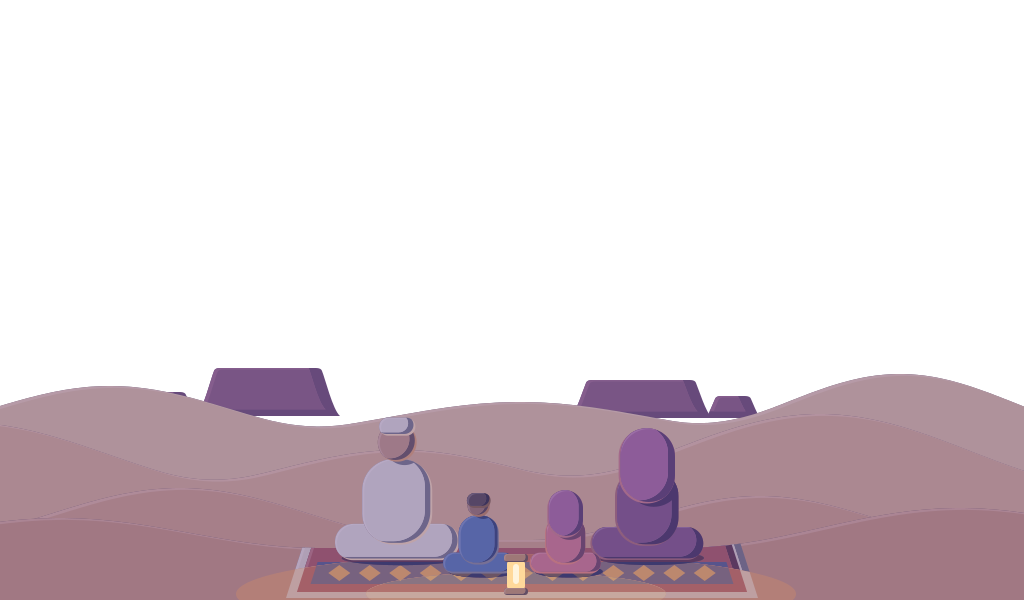
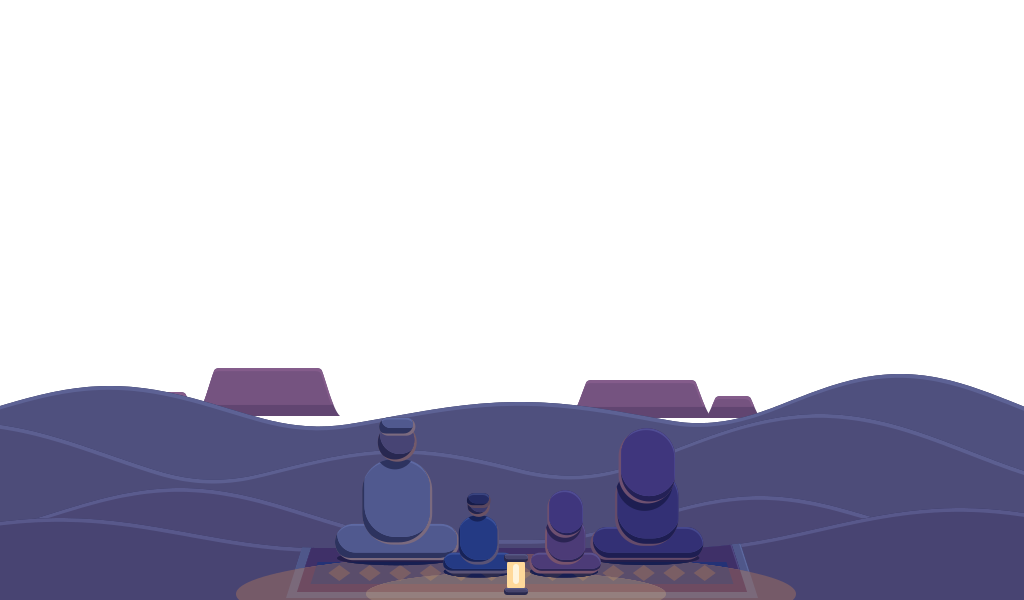
feat(script): the land goes into moonlight before the sky (June 23:10 reads as night)
At -7.5 (21 June 23:10) the picture sat between set-4 and set-10, both
authored as dusk with sunlit sand, so the frame read as late sunset
while the approved still is night. Now the land, family and rug are in
cool violet shade at set-4 (lamp .5, the card dark), at the night's
land colours (shared NIGHT_LIGHT/NIGHT_BANDS, lamp 1) from set-10 and
set-20, and rising at rise-12 (lamp .65, the most the smoothness guard
allows five degrees from the pinned dawn) and rise-20. The skies are
untouched: the horizon keeps its afterglow to -12 and is the night sky
by -20. The light direction reaches moonlight by -12 (setting: a
two-degree swing from -10, so set-4 and set-10 share one shading and
their cross-fade shows one set of shade bands; rising: -7 to -12). The
pinned stops (rise-7, day, set0, night) are byte-identical after the
rebake; five land layers rebaked.

diff --git a/app/ash/core/script.js b/app/ash/core/script.js
@@ -23,9 +23,12 @@ function m(sky, light, glow, clock, card, bands, lamp, dim) {
     kDune: bands[0], kMesa: bands[1], kRug: bands[2], hBand: bands[3], haze: bands[4], lamp: lamp, dim: dim };
 }
 
-// Night: moonlit indigo, a warm lantern on the rug, the card a dark navy with light ink.
-var NIGHT = m(["#0b1230", "#18244e", "#2e3f74"], ["#22307a", "#090c2e", "#9fb4ff", 0.78, 0.18, 0.5], "#9fb4ff",
-  ["#eef1ff", "#050817"], ["#1d2856", "#e8ecff", "#e9a23b"], [16, 12, 7, 4, 0.16], 1, 0.45);
+// Night: moonlit indigo, a warm lantern on the rug, the card a dark navy with light ink. The land goes into
+// moonlight before the sky does: every stop from -10 down (setting) and -12 down (rising) has this land, and
+// only the sky carries the afterglow (June 23:10 is -7.5 and reads as night on the ground, as the approved still).
+var NIGHT_LIGHT = ["#22307a", "#090c2e", "#9fb4ff", 0.78, 0.18, 0.5], NIGHT_BANDS = [16, 12, 7, 4, 0.16];
+var NIGHT = m(["#0b1230", "#18244e", "#2e3f74"], NIGHT_LIGHT, "#9fb4ff",
+  ["#eef1ff", "#050817"], ["#1d2856", "#e8ecff", "#e9a23b"], NIGHT_BANDS, 1, 0.45);
 // Noon: pale gold light, violet shade, blue sky, cream card.
 var DAY = m(["#2a78b4", "#5aa6d2", "#bfe4e4"], ["#fff1cc", "#8a7ea8", "#fff8e0", 0.12, 0.3, 0.3], "#fff4d6",
   ["#ffffff", "#1f5a8c"], ["#fcf1dd", "#1f2a3a", "#e9a23b"], [10, 8, 5, 4, 0.12], 0, 0);
@@ -33,11 +36,12 @@ var DAY = m(["#2a78b4", "#5aa6d2", "#bfe4e4"], ["#fff1cc", "#8a7ea8", "#fff8e0",
 // ascending altitude (degrees): [altitude, moment]
 var RISING = [
   [-90, NIGHT],
-  [-20, m(["#0e1538", "#1e2b5a", "#3a4a84"], ["#2a3a86", "#0b0f34", "#a8bcff", 0.74, 0.18, 0.5], "#b0a8d8",
-    ["#eef1ff", "#080c22"], ["#202c5e", "#e8ecff", "#e9a23b"], [18, 13, 8, 4, 0.16], 1, 0.4)],
-  // first light: violet, the lantern fading, the card still dark
-  [-12, m(["#161c4a", "#3a3878", "#8a6090"], ["#7a6aa8", "#1e1c4e", "#d8c0e0", 0.55, 0.18, 0.46], "#e0b0c0",
-    ["#f6f2ff", "#1c1848"], ["#2c2a60", "#ece8ff", "#e08a5a"], [22, 16, 9, 4.5, 0.16], 0.5, 0.25)],
+  [-20, m(["#0e1538", "#1e2b5a", "#3a4a84"], NIGHT_LIGHT, "#b0a8d8",
+    ["#eef1ff", "#080c22"], ["#202c5e", "#e8ecff", "#e9a23b"], NIGHT_BANDS, 1, 0.45)],
+  // first light: a violet horizon over the moonlit land, the card still dark, the lantern fading toward the unlit
+  // dawn (0.65 is as bright as the smoothness guard allows five degrees from the pinned dawn)
+  [-12, m(["#161c4a", "#3a3878", "#8a6090"], NIGHT_LIGHT, "#e0b0c0",
+    ["#f6f2ff", "#1c1848"], ["#2c2a60", "#ece8ff", "#e08a5a"], NIGHT_BANDS, 0.65, 0.35)],
   // dawn (the approved still): peach light, violet shade
   [-7, m(["#26335f", "#6a5a8a", "#f0a890"], ["#f6c4ae", "#5a3f86", "#ffd9b8", 0.3, 0.22, 0.4], "#ffd0a8",
     ["#fff7ee", "#3a3a6a"], ["#fae4d4", "#2a2440", "#d9745e"], [26, 18, 10, 5, 0.16], 0, 0.1)],
@@ -53,14 +57,15 @@ var RISING = [
 ];
 var SETTING = [
   [-90, NIGHT],
-  [-20, m(["#0e1438", "#1e2858", "#3c4682"], ["#2a3686", "#0b0e34", "#a8b8ff", 0.74, 0.18, 0.5], "#b0a8d4",
-    ["#eef1ff", "#080c22"], ["#202a5c", "#e8ecff", "#e9a23b"], [18, 13, 8, 4, 0.16], 1, 0.4)],
-  // dusk: plum over indigo, the lantern lit, the card gone dark
-  [-10, m(["#161a4a", "#3e2a68", "#9c5a7c"], ["#7a5290", "#1a1444", "#d8a8c0", 0.56, 0.16, 0.46], "#e0a0a8",
-    ["#f6f0ff", "#1a1040"], ["#2c2458", "#ece8ff", "#e08a5a"], [22, 16, 9, 4.5, 0.16], 0.5, 0.25)],
-  // afterglow
-  [-4, m(["#2e2a68", "#7c4068", "#ea8a5c"], ["#f0906c", "#3e2052", "#ffb890", 0.4, 0.22, 0.5], "#ffb878",
-    ["#fff2e6", "#3a2052"], ["#f8d2bc", "#2e1a2a", "#e06a48"], [24, 16, 9, 5, 0.16], 0, 0.08)],
+  [-20, m(["#0e1438", "#1e2858", "#3c4682"], NIGHT_LIGHT, "#b0a8d4",
+    ["#eef1ff", "#080c22"], ["#202a5c", "#e8ecff", "#e9a23b"], NIGHT_BANDS, 1, 0.45)],
+  // dusk: a plum afterglow over the moonlit land, the lantern lit, the card dark
+  [-10, m(["#161a4a", "#3e2a68", "#9c5a7c"], NIGHT_LIGHT, "#e0a0a8",
+    ["#f6f0ff", "#1a1040"], ["#2c2458", "#ece8ff", "#e08a5a"], NIGHT_BANDS, 1, 0.45)],
+  // afterglow: an orange horizon, but no sun on the land any more: cool violet shade, the lantern half lit, the
+  // card gone dark
+  [-4, m(["#2e2a68", "#7c4068", "#ea8a5c"], ["#5a4a98", "#160f3c", "#c8b8e8", 0.6, 0.1, 0.5], "#ffb878",
+    ["#fff2e6", "#3a2052"], ["#3a2a58", "#ece6f6", "#e07a52"], [24, 16, 9, 5, 0.16], 0.5, 0.2)],
   // sunset (the approved still): orange light, plum shade
   [0, m(["#3e3474", "#a24e6e", "#f6a15a"], ["#ff9e64", "#5a2856", "#ffc27a", 0.34, 0.3, 0.5], "#ffd27a",
     ["#fff4e6", "#5a2856"], ["#fcd8be", "#2e1a2a", "#e8653f"], [26, 18, 10, 5, 0.16], 0, 0)],

diff --git a/tests/core/script.test.js b/tests/core/script.test.js
@@ -73,3 +73,32 @@ test('one hue per moment: the dawn stop is violet/peach, the night stop indigo, 
   assert.ok(hue(S.MOMENTS.day.mid) > 220 && hue(S.MOMENTS.day.mid) < 260, 'day sky ' + hue(S.MOMENTS.day.mid));
   assert.ok(S.MOMENTS.night.lamp === 1 && S.MOMENTS['rise-20'].lamp > 0 && S.MOMENTS['rise-1'].lamp === 0, 'the lantern burns at night only');
 });
+
+// The fix pass of 2026-11-12: the land goes into moonlight before the sky does (June 23:10 is -7.5 and must read
+// as night on the ground). Setting: cool shade by -6, the night land by -10, the lantern half lit at -4 and lit from
+// -10; the sky keeps its afterglow at -12 and is the night sky by -20. Rising, below the pinned dawn: the night land
+// by -12 (the lantern as bright as the smoothness guard allows against the dawn's unlit one).
+var LAND = ['key', 'amb', 'sunlight', 'tint', 'lit', 'shade', 'kDune', 'kMesa', 'kRug', 'hBand'];
+function landIsNight(m, where) {
+  LAND.forEach(function (k) {
+    if (typeof m[k] === 'number') { assert.ok(Math.abs(m[k] - S.NIGHT[k]) <= 0.02 * Math.max(1, S.NIGHT[k]), k + ' ' + m[k] + ' is not the night\'s ' + S.NIGHT[k] + ' at ' + where); }
+    else { assert.ok(C.distance(m[k], S.NIGHT[k]) <= 0.02, k + ' ' + m[k] + ' is not the night\'s ' + S.NIGHT[k] + ' at ' + where); }
+  });
+}
+test('the land goes into moonlight early: cool shade by -6 setting, the night land by -10 (by -12 rising), the lantern lit, the sky keeping its afterglow until -12', function () {
+  function hue(hex) { var l = C.toLab(hex), h = Math.atan2(l[2], l[1]) * 180 / Math.PI; return h < 0 ? h + 360 : h; }
+  var dusk = S.momentAt(-6, false);
+  assert.ok(hue(dusk.key) > 250 && hue(dusk.key) < 320 && C.toLab(dusk.key)[0] < 0.5 && dusk.tint >= 0.6, 'at -6 setting the key is a cool shade: ' + dusk.key + ' tint ' + dusk.tint);
+  assert.ok(dusk.lit <= 0.15, 'no sunlit bands at -6: lit ' + dusk.lit);
+  assert.ok(S.momentAt(-4, false).lamp >= 0.5, 'lantern at -4: ' + S.momentAt(-4, false).lamp);
+  for (var alt = -10; alt >= -90; alt -= 1) {
+    landIsNight(S.momentAt(alt, false), alt + ' setting');
+    assert.strictEqual(S.momentAt(alt, false).lamp, 1, 'lantern lit at ' + alt + ' setting');
+    if (alt <= -12) { landIsNight(S.momentAt(alt, true), alt + ' rising'); }
+  }
+  assert.ok(S.momentAt(-12, true).lamp >= 0.6, 'lantern at -12 rising: ' + S.momentAt(-12, true).lamp);
+  var glow = S.momentAt(-12, false).hor, h = hue(glow);
+  assert.ok((h >= 300 || h <= 60) && C.chroma(glow) >= 0.05, 'afterglow horizon at -12 setting: ' + glow + ' hue ' + h.toFixed(0));
+  assert.ok(C.distance(S.momentAt(-20, false).hor, S.NIGHT.hor) <= 0.06 && C.distance(S.momentAt(-20, true).hor, S.NIGHT.hor) <= 0.06, 'the night sky by -20');
+  assert.ok(C.distance(S.momentAt(-7.5, false).key, S.NIGHT.key) <= 0.12, 'June 23:10 (-7.5 setting) is lit like the night: key ' + S.momentAt(-7.5, false).key);
+});

diff --git a/tests/core/cel-art.test.js b/tests/core/cel-art.test.js
@@ -67,17 +67,19 @@ test('family geometry is the October family (Person.qml and Family.qml at d23054
   assert.ok(svg.includes(partShape(f, 'lap').replace(/\/>$/, '')), 'the lap rect is drawn as the table says');
 });
 
-test('the light follows the sun: from the left when rising, the right when setting, overhead by day, moonlight at night', () => {
+test('the light follows the sun: from the left when rising, the right when setting, overhead by day, moonlight from -10 to -12', () => {
   const near = (a, b) => a.every((v, i) => Math.abs(v - b[i]) < 0.01);
   assert.ok(near(lightAt(-7, true), unit([-1, -0.18])), 'dawn ' + lightAt(-7, true));
   assert.ok(near(lightAt(0, false), unit([1, -0.18])), 'sunset ' + lightAt(0, false));
   assert.ok(near(lightAt(90, true), unit([-0.3, -1])) && near(lightAt(90, false), unit([-0.3, -1])), 'noon');
   assert.ok(near(lightAt(-90, true), unit([0.3, -1])) && near(lightAt(-30, false), unit([0.3, -1])), 'night');
+  assert.ok(near(lightAt(-12, true), unit([0.3, -1])) && near(lightAt(-12, false), unit([0.3, -1])), 'moonlight by -12: ' + lightAt(-12, false));
+  assert.ok(near(lightAt(-10, false), unit([1, -0.18])), 'the horizon glow lights the land down to -10 (the -10 and -4 layers share one shading): ' + lightAt(-10, false));
   [true, false].forEach(rising => {
     let prev = lightAt(-90, rising);
     for (let alt = -89.5; alt <= 90; alt += 0.5) {
       const L = lightAt(alt, rising);
-      assert.ok(Math.hypot(L[0] - prev[0], L[1] - prev[1]) < 0.12, `light jumps at ${alt}`); // under 7 degrees of swing per half degree
+      assert.ok(Math.hypot(L[0] - prev[0], L[1] - prev[1]) < 0.5, `light jumps at ${alt}`); // the two-degree swing to moonlight (setting) peaks at 0.41 per half degree; a jump is over 1
       prev = L;
     }
   });

diff --git a/tools/art/cel/light.js b/tools/art/cel/light.js
@@ -3,7 +3,10 @@
 // (x right, y down). The sun rises at the picture's left (core/geometry.js arcPoint(0)), so a rising sun lights
 // from the left: (-1, -0.18) at the horizon as in the approved dawn still, (1, -0.18) at sunset; overhead it is
 // (-0.3, -1) as in the noon still (shared by rising and setting, since the `day` layer is one file). Under the
-// horizon the glow on the horizon gives way to moonlight (0.3, -1) by -22 degrees. Continuous in altitude.
+// horizon the glow on the horizon gives way to moonlight (0.3, -1) by -12: setting, it lights the land down to
+// -10, so the -10 and -4 layers share one shading and their cross-fade (June 23:10) shows one set of shade bands;
+// rising, the swing spans the pinned dawn (-7) to -12. Every layer from -12 down shares the night's shading.
+// Continuous in altitude.
 const { unit } = require('./paint');
 
 const smooth = t => t * t * (3 - 2 * t);
@@ -16,7 +19,7 @@ function lightAt(alt, rising) {
     const a = smooth(clamp(alt / 70, 0, 1)); // horizon light to overhead light by 70 degrees
     return unit([side * (1 - a) + NOON[0] * a, HORIZON_Y * (1 - a) + NOON[1] * a]);
   }
-  const n = smooth(clamp((-alt - 8) / 14, 0, 1)); // horizon glow down to -8, moonlight from -22
+  const n = rising ? smooth(clamp((-alt - 7) / 5, 0, 1)) : smooth(clamp((-alt - 10) / 2, 0, 1)); // moonlight by -12
   return unit([side * (1 - n) + MOON[0] * n, HORIZON_Y * (1 - n) + MOON[1] * n]);
 }
 
